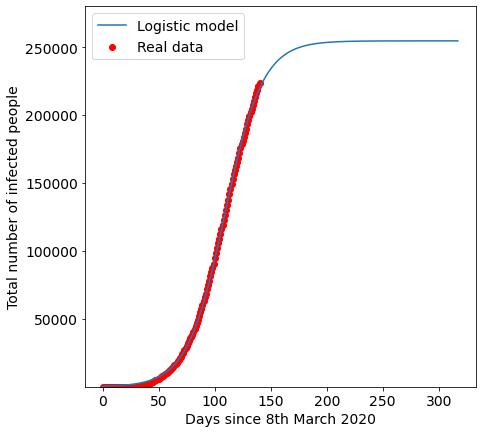
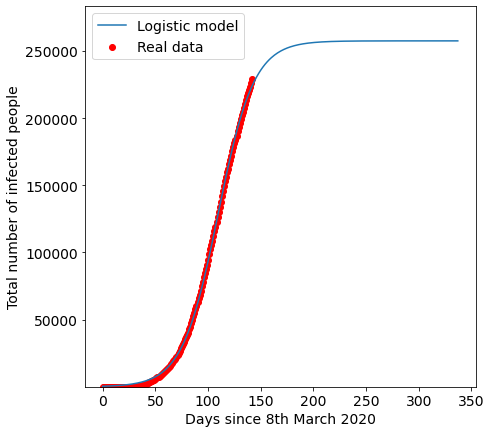
Updated 28th July 2020

diff --git a/README.md b/README.md
@@ -63,16 +63,6 @@ df.tail()
   </thead>
   <tbody>
     <tr>
-      <th>136</th>
-      <td>7-22-2020</td>
-      <td>213254</td>
-    </tr>
-    <tr>
-      <th>137</th>
-      <td>7-23-2020</td>
-      <td>216110</td>
-    </tr>
-    <tr>
       <th>138</th>
       <td>7-24-2020</td>
       <td>218658</td>
@@ -86,6 +76,16 @@ df.tail()
       <th>140</th>
       <td>7-26-2020</td>
       <td>223453</td>
+    </tr>
+    <tr>
+      <th>141</th>
+      <td>7-27-2020</td>
+      <td>226225</td>
+    </tr>
+    <tr>
+      <th>142</th>
+      <td>7-28-2020</td>
+      <td>229185</td>
     </tr>
   </tbody>
 </table>
@@ -157,16 +157,6 @@ data.tail()
   </thead>
   <tbody>
     <tr>
-      <th>136</th>
-      <td>136</td>
-      <td>213254</td>
-    </tr>
-    <tr>
-      <th>137</th>
-      <td>137</td>
-      <td>216110</td>
-    </tr>
-    <tr>
       <th>138</th>
       <td>138</td>
       <td>218658</td>
@@ -180,6 +170,16 @@ data.tail()
       <th>140</th>
       <td>140</td>
       <td>223453</td>
+    </tr>
+    <tr>
+      <th>141</th>
+      <td>141</td>
+      <td>226225</td>
+    </tr>
+    <tr>
+      <th>142</th>
+      <td>142</td>
+      <td>229185</td>
     </tr>
   </tbody>
 </table>
@@ -227,9 +227,9 @@ print('Days from start when cumulative case counts will peak: ', b)
 print('Total cumulative cases that will be reached: ', c)
 ```
 
-    Metric for speed of infections:  16.827304838929763
-    Days from start when cumulative case counts will peak:  109.11243433976801
-    Total cumulative cases that will be reached:  254618.9850006353
+    Metric for speed of infections:  16.978516374714104
+    Days from start when cumulative case counts will peak:  109.5528122589862
+    Total cumulative cases that will be reached:  257467.34873389627
     
 
 
@@ -240,7 +240,7 @@ print('Errors in a, b and c respectively:\n', errors)
 ```
 
     Errors in a, b and c respectively:
-     [0.10583488222097909, 0.21728666192941348, 1271.1935274168136]
+     [0.1109846084871684, 0.2220521949895737, 1285.6022375214159]
     
 
 
@@ -252,8 +252,8 @@ print('Estimated time of peak between', start_date + timedelta(days=(b-errors[1]
 print('Estimated total number of infections betweeen ', (c - errors[2]), ' and ', (c + errors[2]))
 ```
 
-    Estimated time of peak between 2020-06-24  and  2020-06-25
-    Estimated total number of infections betweeen  253347.79147321847  and  255890.1785280521
+    Estimated time of peak between 2020-06-25  and  2020-06-25
+    Estimated total number of infections betweeen  256181.74649637486  and  258752.95097141768
     
 
 To extrapolate the curve to the future, use the fsolve function from scipy.
@@ -301,7 +301,7 @@ for i in x]
 print('Mean squared error: ', mean_squared_error(y,y_pred_logistic))
 ```
 
-    Mean squared error:  1796068.5076298248
+    Mean squared error:  2107356.0796146584
     
 
 # Epilogue
